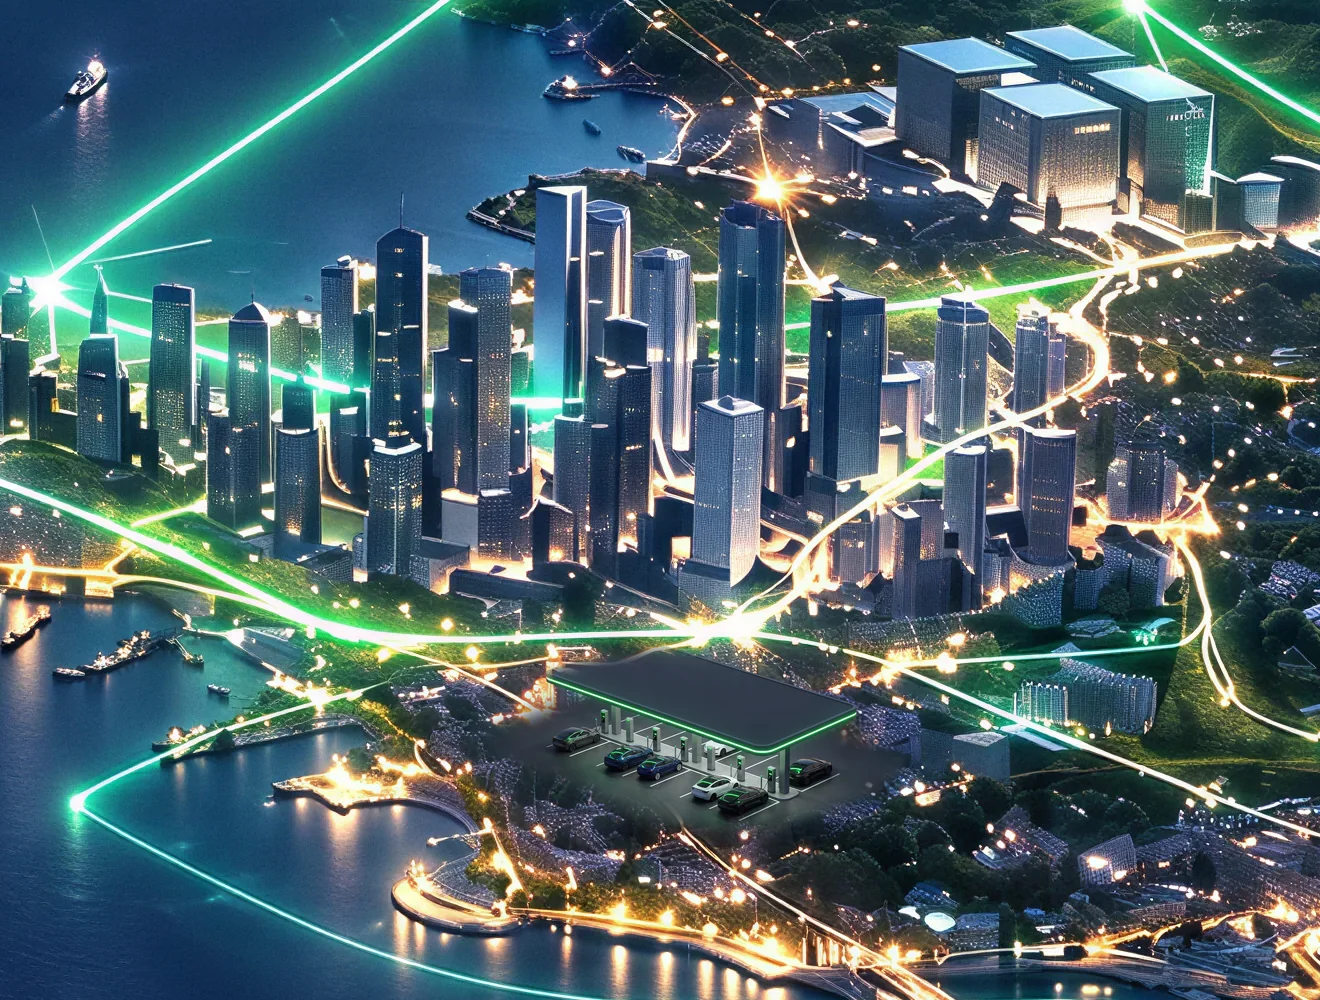
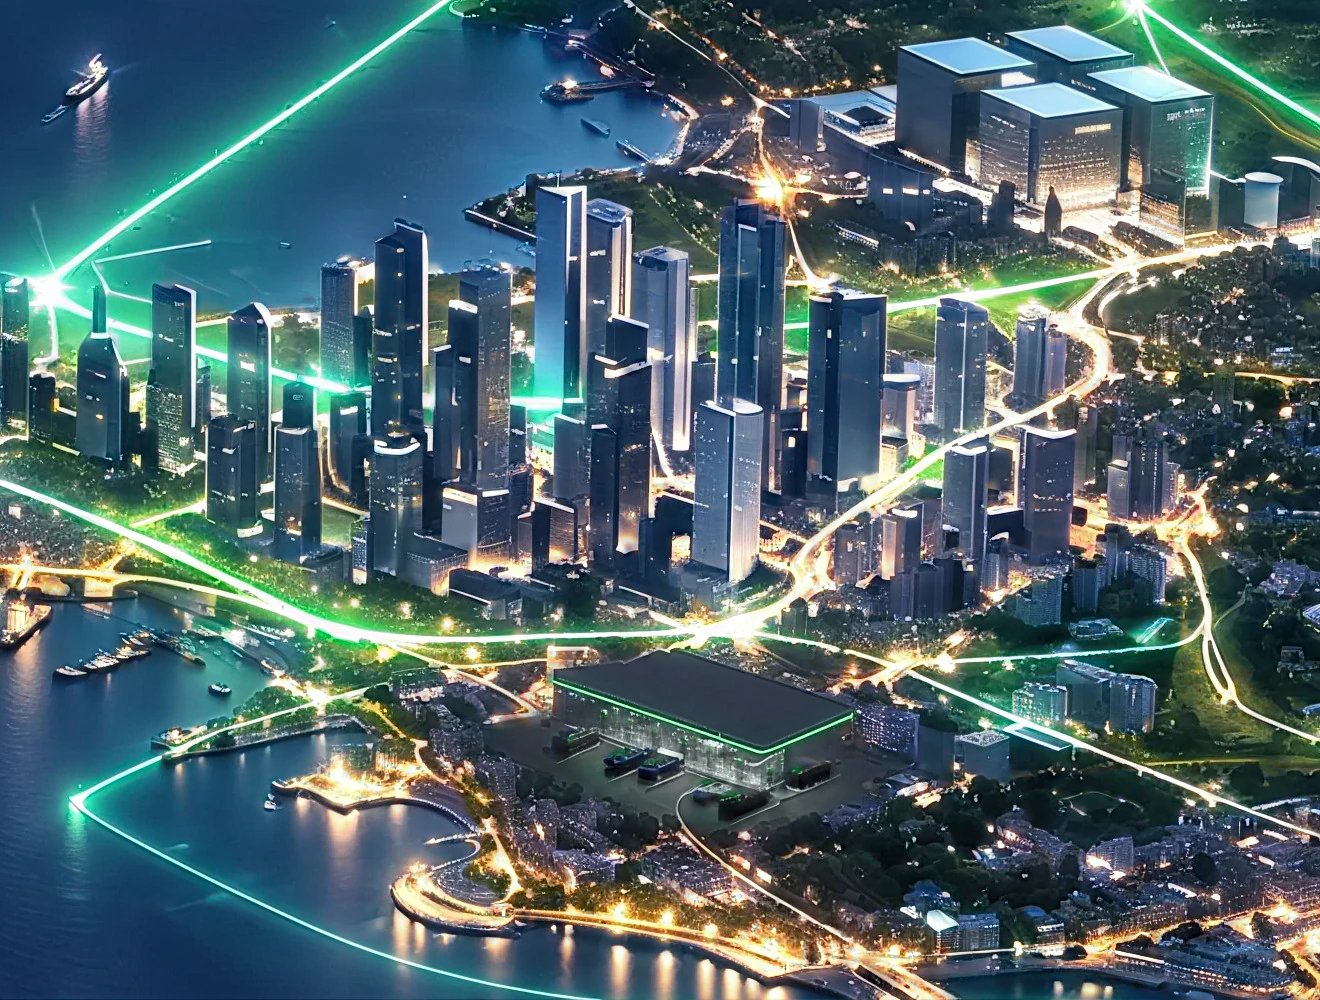
r39: sharper city detail at the charging stop of the opening tour

diff --git a/index.html b/index.html
@@ -22,17 +22,17 @@
   if (!window.__still && matchMedia("(prefers-reduced-motion:no-preference)").matches) document.documentElement.classList.add("open-anim");
   if ("scrollRestoration" in history) history.scrollRestoration = "manual";
 </script>
-<link rel="stylesheet" href="assets/css/site.css?v=r38">
-<link rel="stylesheet" href="assets/css/scene.css?v=r38">
+<link rel="stylesheet" href="assets/css/site.css?v=r39">
+<link rel="stylesheet" href="assets/css/scene.css?v=r39">
 <link rel="preload" href="assets/img/scene/wide-on.webp" as="image" media="(min-aspect-ratio:9/10)">
 <link rel="preload" href="assets/img/scene/tall-on.webp" as="image" media="(max-aspect-ratio:9/10)">
 <!-- the page's own files carry the round (?v=), so a visitor never gets this round's code with pieces of the last one from the cache -->
-<script type="importmap">{"imports":{"./assets/js/ribbon.js":"./assets/js/ribbon.js?v=r38","./assets/js/arc-rings.js":"./assets/js/arc-rings.js?v=r38","./assets/js/sky.js":"./assets/js/sky.js?v=r38","./assets/js/scene-dom.js":"./assets/js/scene-dom.js?v=r38","./assets/js/scene-marks.js":"./assets/js/scene-marks.js?v=r38","./assets/js/scene-trail.js":"./assets/js/scene-trail.js?v=r38","./assets/js/menu-dots.js":"./assets/js/menu-dots.js?v=r38"}}</script>
+<script type="importmap">{"imports":{"./assets/js/ribbon.js":"./assets/js/ribbon.js?v=r39","./assets/js/arc-rings.js":"./assets/js/arc-rings.js?v=r39","./assets/js/sky.js":"./assets/js/sky.js?v=r39","./assets/js/scene-dom.js":"./assets/js/scene-dom.js?v=r39","./assets/js/scene-marks.js":"./assets/js/scene-marks.js?v=r39","./assets/js/scene-trail.js":"./assets/js/scene-trail.js?v=r39","./assets/js/menu-dots.js":"./assets/js/menu-dots.js?v=r39"}}</script>
 <script defer src="vendor/gsap/gsap.min.js"></script>
 <script defer src="vendor/gsap/SplitText.min.js"></script>
 <script defer src="vendor/lenis/lenis.min.js"></script>
-<script type="module" src="assets/js/site.js?v=r38"></script>
-<script type="module" src="assets/js/scene.js?v=r38"></script>
+<script type="module" src="assets/js/site.js?v=r39"></script>
+<script type="module" src="assets/js/scene.js?v=r39"></script>
 </head>
 <body>
 <!-- the living night: one field behind the whole page -->

diff --git a/about.html b/about.html
@@ -20,15 +20,15 @@
     if (ax.text) d.classList.add("ax-t" + ax.text); })(document.documentElement);
   if ("scrollRestoration" in history) history.scrollRestoration = "manual";
 </script>
-<link rel="stylesheet" href="assets/css/site.css?v=r38">
-<link rel="stylesheet" href="assets/css/domain.css?v=r38">
+<link rel="stylesheet" href="assets/css/site.css?v=r39">
+<link rel="stylesheet" href="assets/css/domain.css?v=r39">
 <!-- the page's own files carry the round (?v=), so a visitor never gets this round's code with pieces of the last one from the cache -->
-<script type="importmap">{"imports":{"./assets/js/ribbon.js":"./assets/js/ribbon.js?v=r38","./assets/js/arc-rings.js":"./assets/js/arc-rings.js?v=r38","./assets/js/sky.js":"./assets/js/sky.js?v=r38","./assets/js/mark3d.js":"./assets/js/mark3d.js?v=r38"}}</script>
+<script type="importmap">{"imports":{"./assets/js/ribbon.js":"./assets/js/ribbon.js?v=r39","./assets/js/arc-rings.js":"./assets/js/arc-rings.js?v=r39","./assets/js/sky.js":"./assets/js/sky.js?v=r39","./assets/js/mark3d.js":"./assets/js/mark3d.js?v=r39"}}</script>
 <script defer src="vendor/gsap/gsap.min.js"></script>
 <script defer src="vendor/lenis/lenis.min.js"></script>
-<script type="module" src="assets/js/page.js?v=r38"></script>
-<script type="module" src="assets/js/domain.js?v=r38"></script>
-<script type="module" src="assets/js/mark3d.js?v=r38"></script>
+<script type="module" src="assets/js/page.js?v=r39"></script>
+<script type="module" src="assets/js/domain.js?v=r39"></script>
+<script type="module" src="assets/js/mark3d.js?v=r39"></script>
 </head>
 <body>
 <canvas id="sky" aria-hidden="true"></canvas>

diff --git a/charge.html b/charge.html
@@ -22,14 +22,14 @@
     if (ax.text) d.classList.add("ax-t" + ax.text); })(document.documentElement);
   if ("scrollRestoration" in history) history.scrollRestoration = "manual";
 </script>
-<link rel="stylesheet" href="assets/css/site.css?v=r38">
-<link rel="stylesheet" href="assets/css/domain.css?v=r38">
+<link rel="stylesheet" href="assets/css/site.css?v=r39">
+<link rel="stylesheet" href="assets/css/domain.css?v=r39">
 <!-- the page's own files carry the round (?v=), so a visitor never gets this round's code with pieces of the last one from the cache -->
-<script type="importmap">{"imports":{"./assets/js/ribbon.js":"./assets/js/ribbon.js?v=r38","./assets/js/arc-rings.js":"./assets/js/arc-rings.js?v=r38","./assets/js/sky.js":"./assets/js/sky.js?v=r38"}}</script>
+<script type="importmap">{"imports":{"./assets/js/ribbon.js":"./assets/js/ribbon.js?v=r39","./assets/js/arc-rings.js":"./assets/js/arc-rings.js?v=r39","./assets/js/sky.js":"./assets/js/sky.js?v=r39"}}</script>
 <script defer src="vendor/gsap/gsap.min.js"></script>
 <script defer src="vendor/lenis/lenis.min.js"></script>
-<script type="module" src="assets/js/page.js?v=r38"></script>
-<script type="module" src="assets/js/domain.js?v=r38"></script>
+<script type="module" src="assets/js/page.js?v=r39"></script>
+<script type="module" src="assets/js/domain.js?v=r39"></script>
 </head>
 <body>
 <canvas id="sky" aria-hidden="true"></canvas>

diff --git a/contact.html b/contact.html
@@ -22,14 +22,14 @@
     if (ax.text) d.classList.add("ax-t" + ax.text); })(document.documentElement);
   if ("scrollRestoration" in history) history.scrollRestoration = "manual";
 </script>
-<link rel="stylesheet" href="assets/css/site.css?v=r38">
-<link rel="stylesheet" href="assets/css/domain.css?v=r38">
+<link rel="stylesheet" href="assets/css/site.css?v=r39">
+<link rel="stylesheet" href="assets/css/domain.css?v=r39">
 <!-- the page's own files carry the round (?v=), so a visitor never gets this round's code with pieces of the last one from the cache -->
-<script type="importmap">{"imports":{"./assets/js/ribbon.js":"./assets/js/ribbon.js?v=r38","./assets/js/arc-rings.js":"./assets/js/arc-rings.js?v=r38","./assets/js/sky.js":"./assets/js/sky.js?v=r38"}}</script>
+<script type="importmap">{"imports":{"./assets/js/ribbon.js":"./assets/js/ribbon.js?v=r39","./assets/js/arc-rings.js":"./assets/js/arc-rings.js?v=r39","./assets/js/sky.js":"./assets/js/sky.js?v=r39"}}</script>
 <script defer src="vendor/gsap/gsap.min.js"></script>
 <script defer src="vendor/lenis/lenis.min.js"></script>
-<script type="module" src="assets/js/page.js?v=r38"></script>
-<script type="module" src="assets/js/domain.js?v=r38"></script>
+<script type="module" src="assets/js/page.js?v=r39"></script>
+<script type="module" src="assets/js/domain.js?v=r39"></script>
 </head>
 <body>
 <canvas id="sky" aria-hidden="true"></canvas>

diff --git a/knowledge.html b/knowledge.html
@@ -22,14 +22,14 @@
     if (ax.text) d.classList.add("ax-t" + ax.text); })(document.documentElement);
   if ("scrollRestoration" in history) history.scrollRestoration = "manual";
 </script>
-<link rel="stylesheet" href="assets/css/site.css?v=r38">
-<link rel="stylesheet" href="assets/css/domain.css?v=r38">
+<link rel="stylesheet" href="assets/css/site.css?v=r39">
+<link rel="stylesheet" href="assets/css/domain.css?v=r39">
 <!-- the page's own files carry the round (?v=), so a visitor never gets this round's code with pieces of the last one from the cache -->
-<script type="importmap">{"imports":{"./assets/js/ribbon.js":"./assets/js/ribbon.js?v=r38","./assets/js/arc-rings.js":"./assets/js/arc-rings.js?v=r38","./assets/js/sky.js":"./assets/js/sky.js?v=r38"}}</script>
+<script type="importmap">{"imports":{"./assets/js/ribbon.js":"./assets/js/ribbon.js?v=r39","./assets/js/arc-rings.js":"./assets/js/arc-rings.js?v=r39","./assets/js/sky.js":"./assets/js/sky.js?v=r39"}}</script>
 <script defer src="vendor/gsap/gsap.min.js"></script>
 <script defer src="vendor/lenis/lenis.min.js"></script>
-<script type="module" src="assets/js/page.js?v=r38"></script>
-<script type="module" src="assets/js/domain.js?v=r38"></script>
+<script type="module" src="assets/js/page.js?v=r39"></script>
+<script type="module" src="assets/js/domain.js?v=r39"></script>
 </head>
 <body>
 <canvas id="sky" aria-hidden="true"></canvas>

diff --git a/solar.html b/solar.html
@@ -22,14 +22,14 @@
     if (ax.text) d.classList.add("ax-t" + ax.text); })(document.documentElement);
   if ("scrollRestoration" in history) history.scrollRestoration = "manual";
 </script>
-<link rel="stylesheet" href="assets/css/site.css?v=r38">
-<link rel="stylesheet" href="assets/css/domain.css?v=r38">
+<link rel="stylesheet" href="assets/css/site.css?v=r39">
+<link rel="stylesheet" href="assets/css/domain.css?v=r39">
 <!-- the page's own files carry the round (?v=), so a visitor never gets this round's code with pieces of the last one from the cache -->
-<script type="importmap">{"imports":{"./assets/js/ribbon.js":"./assets/js/ribbon.js?v=r38","./assets/js/arc-rings.js":"./assets/js/arc-rings.js?v=r38","./assets/js/sky.js":"./assets/js/sky.js?v=r38"}}</script>
+<script type="importmap">{"imports":{"./assets/js/ribbon.js":"./assets/js/ribbon.js?v=r39","./assets/js/arc-rings.js":"./assets/js/arc-rings.js?v=r39","./assets/js/sky.js":"./assets/js/sky.js?v=r39"}}</script>
 <script defer src="vendor/gsap/gsap.min.js"></script>
 <script defer src="vendor/lenis/lenis.min.js"></script>
-<script type="module" src="assets/js/page.js?v=r38"></script>
-<script type="module" src="assets/js/domain.js?v=r38"></script>
+<script type="module" src="assets/js/page.js?v=r39"></script>
+<script type="module" src="assets/js/domain.js?v=r39"></script>
 </head>
 <body>
 <canvas id="sky" aria-hidden="true"></canvas>

diff --git a/storage.html b/storage.html
@@ -22,14 +22,14 @@
     if (ax.text) d.classList.add("ax-t" + ax.text); })(document.documentElement);
   if ("scrollRestoration" in history) history.scrollRestoration = "manual";
 </script>
-<link rel="stylesheet" href="assets/css/site.css?v=r38">
-<link rel="stylesheet" href="assets/css/domain.css?v=r38">
+<link rel="stylesheet" href="assets/css/site.css?v=r39">
+<link rel="stylesheet" href="assets/css/domain.css?v=r39">
 <!-- the page's own files carry the round (?v=), so a visitor never gets this round's code with pieces of the last one from the cache -->
-<script type="importmap">{"imports":{"./assets/js/ribbon.js":"./assets/js/ribbon.js?v=r38","./assets/js/arc-rings.js":"./assets/js/arc-rings.js?v=r38","./assets/js/sky.js":"./assets/js/sky.js?v=r38"}}</script>
+<script type="importmap">{"imports":{"./assets/js/ribbon.js":"./assets/js/ribbon.js?v=r39","./assets/js/arc-rings.js":"./assets/js/arc-rings.js?v=r39","./assets/js/sky.js":"./assets/js/sky.js?v=r39"}}</script>
 <script defer src="vendor/gsap/gsap.min.js"></script>
 <script defer src="vendor/lenis/lenis.min.js"></script>
-<script type="module" src="assets/js/page.js?v=r38"></script>
-<script type="module" src="assets/js/domain.js?v=r38"></script>
+<script type="module" src="assets/js/page.js?v=r39"></script>
+<script type="module" src="assets/js/domain.js?v=r39"></script>
 </head>
 <body>
 <canvas id="sky" aria-hidden="true"></canvas>

diff --git a/article.html b/article.html
@@ -21,12 +21,12 @@
     if (ax.text) d.classList.add("ax-t" + ax.text); })(document.documentElement);
   if ("scrollRestoration" in history) history.scrollRestoration = "manual";
 </script>
-<link rel="stylesheet" href="assets/css/site.css?v=r38">
-<link rel="stylesheet" href="assets/css/domain.css?v=r38">
+<link rel="stylesheet" href="assets/css/site.css?v=r39">
+<link rel="stylesheet" href="assets/css/domain.css?v=r39">
 <!-- the page's own files carry the round (?v=), so a visitor never gets this round's code with pieces of the last one from the cache -->
-<script type="importmap">{"imports":{"./assets/js/ribbon.js":"./assets/js/ribbon.js?v=r38","./assets/js/arc-rings.js":"./assets/js/arc-rings.js?v=r38","./assets/js/sky.js":"./assets/js/sky.js?v=r38"}}</script>
-<script type="module" src="assets/js/page.js?v=r38"></script>
-<script type="module" src="assets/js/article.js?v=r38"></script>
+<script type="importmap">{"imports":{"./assets/js/ribbon.js":"./assets/js/ribbon.js?v=r39","./assets/js/arc-rings.js":"./assets/js/arc-rings.js?v=r39","./assets/js/sky.js":"./assets/js/sky.js?v=r39"}}</script>
+<script type="module" src="assets/js/page.js?v=r39"></script>
+<script type="module" src="assets/js/article.js?v=r39"></script>
 </head>
 <body>
 <canvas id="sky" aria-hidden="true"></canvas>

diff --git a/accessibility.html b/accessibility.html
@@ -20,11 +20,11 @@
     if (ax.text) d.classList.add("ax-t" + ax.text); })(document.documentElement);
   if ("scrollRestoration" in history) history.scrollRestoration = "manual";
 </script>
-<link rel="stylesheet" href="assets/css/site.css?v=r38">
-<link rel="stylesheet" href="assets/css/domain.css?v=r38">
+<link rel="stylesheet" href="assets/css/site.css?v=r39">
+<link rel="stylesheet" href="assets/css/domain.css?v=r39">
 <!-- the page's own files carry the round (?v=), so a visitor never gets this round's code with pieces of the last one from the cache -->
-<script type="importmap">{"imports":{"./assets/js/ribbon.js":"./assets/js/ribbon.js?v=r38","./assets/js/arc-rings.js":"./assets/js/arc-rings.js?v=r38","./assets/js/sky.js":"./assets/js/sky.js?v=r38"}}</script>
-<script type="module" src="assets/js/page.js?v=r38"></script>
+<script type="importmap">{"imports":{"./assets/js/ribbon.js":"./assets/js/ribbon.js?v=r39","./assets/js/arc-rings.js":"./assets/js/arc-rings.js?v=r39","./assets/js/sky.js":"./assets/js/sky.js?v=r39"}}</script>
+<script type="module" src="assets/js/page.js?v=r39"></script>
 </head>
 <body>
 <canvas id="sky" aria-hidden="true"></canvas>

diff --git a/privacy.html b/privacy.html
@@ -20,11 +20,11 @@
     if (ax.text) d.classList.add("ax-t" + ax.text); })(document.documentElement);
   if ("scrollRestoration" in history) history.scrollRestoration = "manual";
 </script>
-<link rel="stylesheet" href="assets/css/site.css?v=r38">
-<link rel="stylesheet" href="assets/css/domain.css?v=r38">
+<link rel="stylesheet" href="assets/css/site.css?v=r39">
+<link rel="stylesheet" href="assets/css/domain.css?v=r39">
 <!-- the page's own files carry the round (?v=), so a visitor never gets this round's code with pieces of the last one from the cache -->
-<script type="importmap">{"imports":{"./assets/js/ribbon.js":"./assets/js/ribbon.js?v=r38","./assets/js/arc-rings.js":"./assets/js/arc-rings.js?v=r38","./assets/js/sky.js":"./assets/js/sky.js?v=r38"}}</script>
-<script type="module" src="assets/js/page.js?v=r38"></script>
+<script type="importmap">{"imports":{"./assets/js/ribbon.js":"./assets/js/ribbon.js?v=r39","./assets/js/arc-rings.js":"./assets/js/arc-rings.js?v=r39","./assets/js/sky.js":"./assets/js/sky.js?v=r39"}}</script>
+<script type="module" src="assets/js/page.js?v=r39"></script>
 </head>
 <body>
 <canvas id="sky" aria-hidden="true"></canvas>

diff --git a/terms.html b/terms.html
@@ -20,11 +20,11 @@
     if (ax.text) d.classList.add("ax-t" + ax.text); })(document.documentElement);
   if ("scrollRestoration" in history) history.scrollRestoration = "manual";
 </script>
-<link rel="stylesheet" href="assets/css/site.css?v=r38">
-<link rel="stylesheet" href="assets/css/domain.css?v=r38">
+<link rel="stylesheet" href="assets/css/site.css?v=r39">
+<link rel="stylesheet" href="assets/css/domain.css?v=r39">
 <!-- the page's own files carry the round (?v=), so a visitor never gets this round's code with pieces of the last one from the cache -->
-<script type="importmap">{"imports":{"./assets/js/ribbon.js":"./assets/js/ribbon.js?v=r38","./assets/js/arc-rings.js":"./assets/js/arc-rings.js?v=r38","./assets/js/sky.js":"./assets/js/sky.js?v=r38"}}</script>
-<script type="module" src="assets/js/page.js?v=r38"></script>
+<script type="importmap">{"imports":{"./assets/js/ribbon.js":"./assets/js/ribbon.js?v=r39","./assets/js/arc-rings.js":"./assets/js/arc-rings.js?v=r39","./assets/js/sky.js":"./assets/js/sky.js?v=r39"}}</script>
+<script type="module" src="assets/js/page.js?v=r39"></script>
 </head>
 <body>
 <canvas id="sky" aria-hidden="true"></canvas>

diff --git a/assets/js/scene.js b/assets/js/scene.js
@@ -384,7 +384,7 @@ async function loadSet() {
   // the tour's sharper patches come after the scene itself, and step in when they are all here
   if (tourOn) {
     s.patchReady = false;
-    Promise.all(s.tour.patches.map(([k]) => loadImg(`assets/img/scene/${s.name}-p-${k}.webp`))).then((imgs) => {
+    Promise.all(s.tour.patches.map(([k]) => loadImg(`assets/img/scene/${s.name}-p-${k}.webp?v=r39`))).then((imgs) => {
       if (s !== set) return;
       imgs.forEach((im, i) => texture(gl, 3 + i, im));
       s.patchReady = true;
